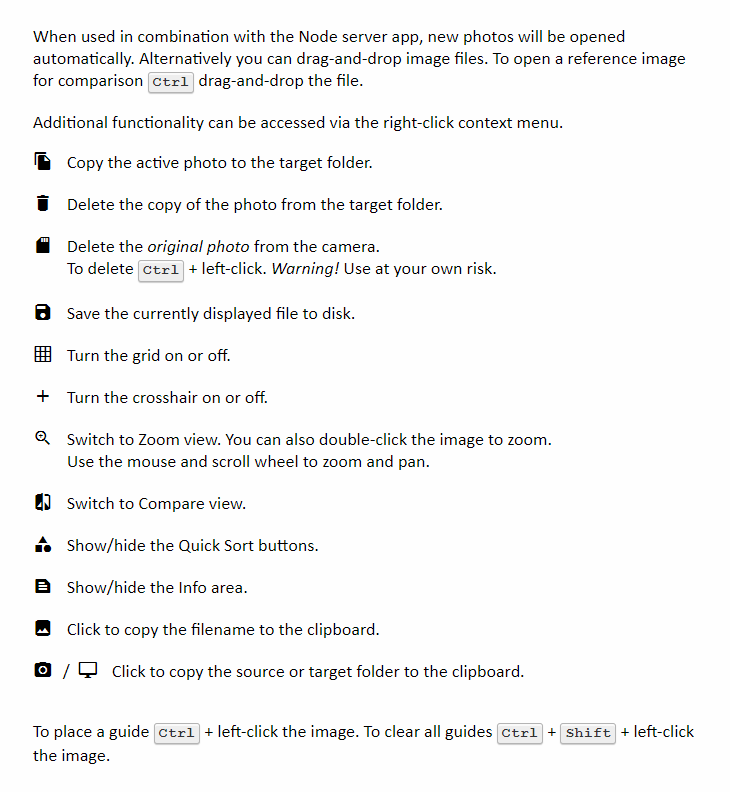
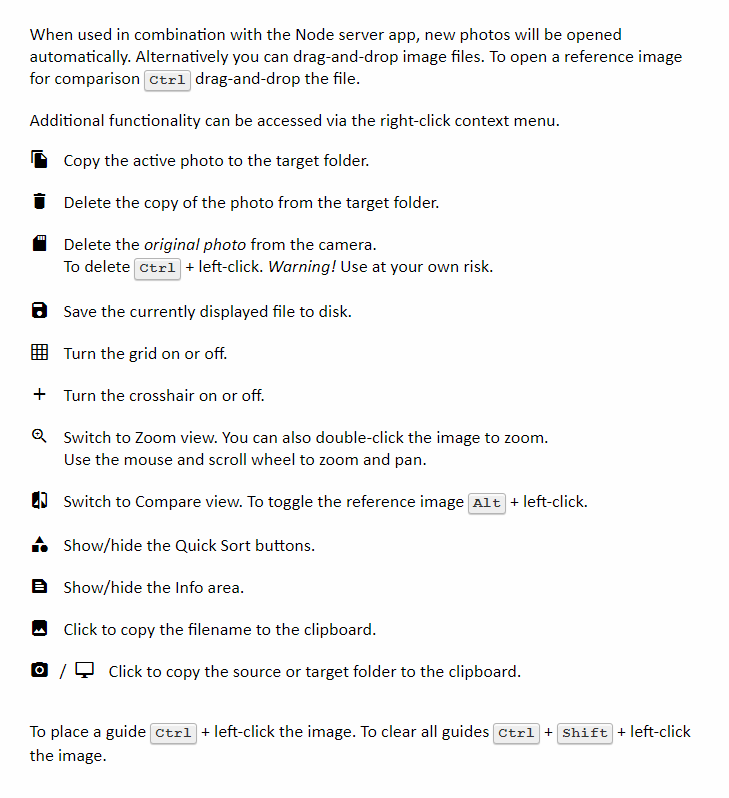
Toggle reference image

diff --git a/index.html b/index.html
@@ -1139,7 +1139,7 @@
           </ul>
         </li>
         <li>
-          <span class="material-icons">compare</span> Switch to Compare view.
+          <span class="material-icons">compare</span> Switch to Compare view. To toggle the reference image <kbd>Alt</kbd> + left-click.
         </li>
         <li>
           <span class="material-icons">category</span> Show/hide the Quick Sort buttons.
